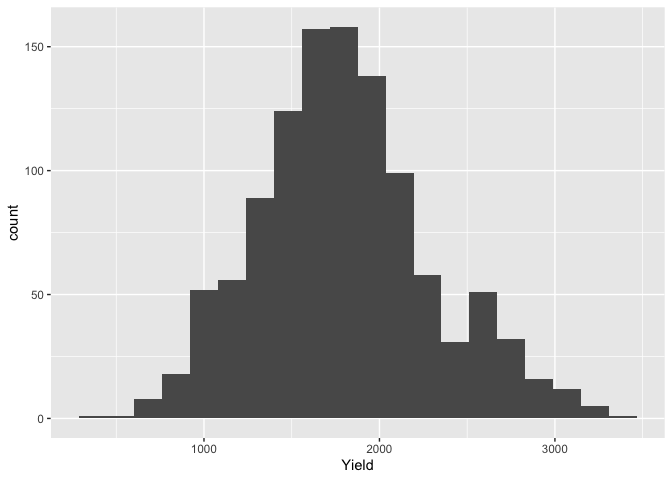
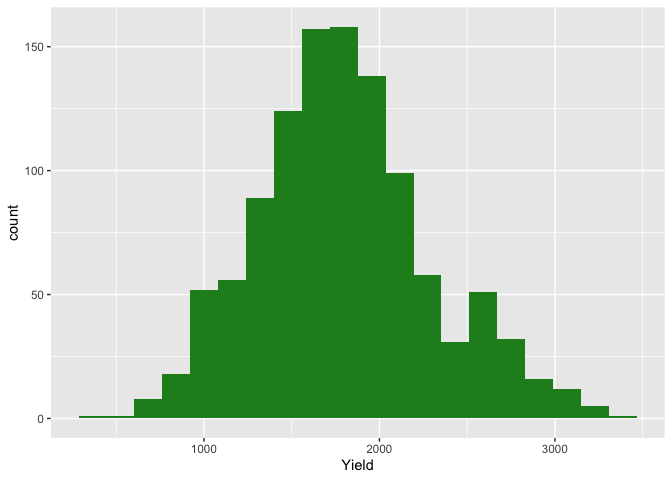
recommitting minor changes

Changed region(s): [[0.125, 0.0312, 0.9375, 0.875]]

diff --git a/Hops_Data_HGA.md b/Hops_Data_HGA.md
@@ -247,7 +247,7 @@ listtbl <- lapply(pdf.list, function(x) {
 toc()
 ```
 
-    ## 4.298 sec elapsed
+    ## 4.275 sec elapsed
 
 ``` r
 hga_years <- unlist(lapply(listtbl, function(x) x$year))
@@ -392,15 +392,14 @@ from the HGA reports. These are anonymized values to protect the privacy
 of growers that are cultivating unique varieties within their state.
 
 ``` r
-y <- hga_yield$Yield
-summary(y)
+summary(hga_yield$Yield)
 ```
 
     ##    Min. 1st Qu.  Median    Mean 3rd Qu.    Max.    NA's 
     ##     365    1468    1772    1798    2072    3387     273
 
 ``` r
-ggplot(hga_yield, aes(Yield)) + geom_histogram(bins=20)
+ggplot(hga_yield, aes(Yield)) + geom_histogram(bins=20, fill="forestgreen")
 ```
 
     ## Warning: Removed 273 rows containing non-finite outside the scale range